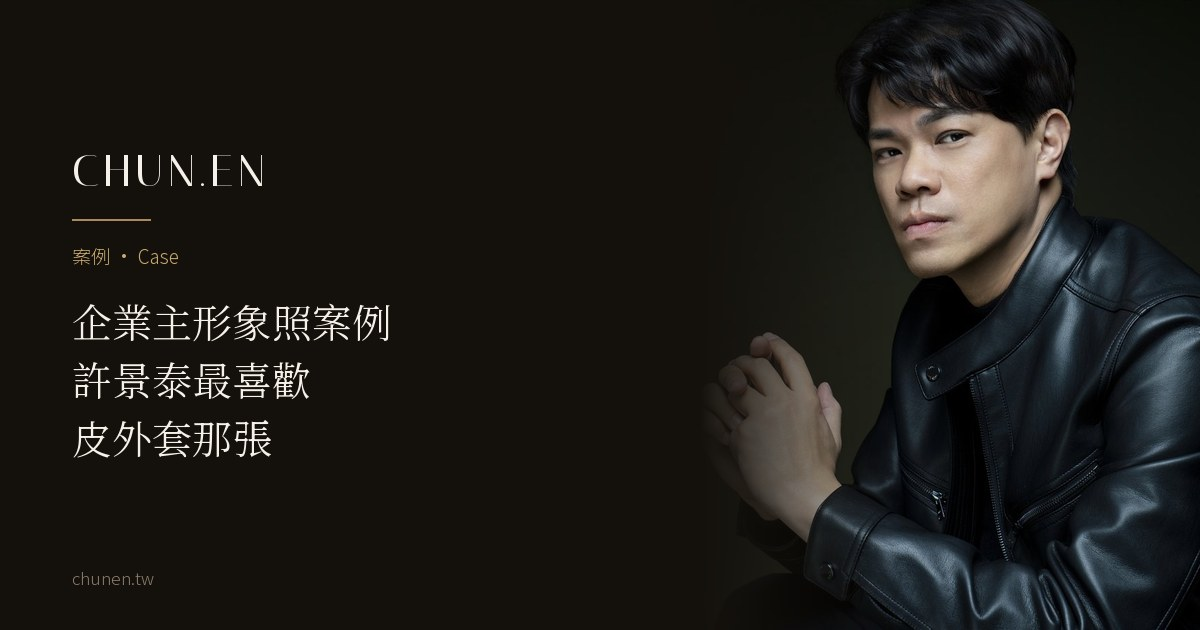
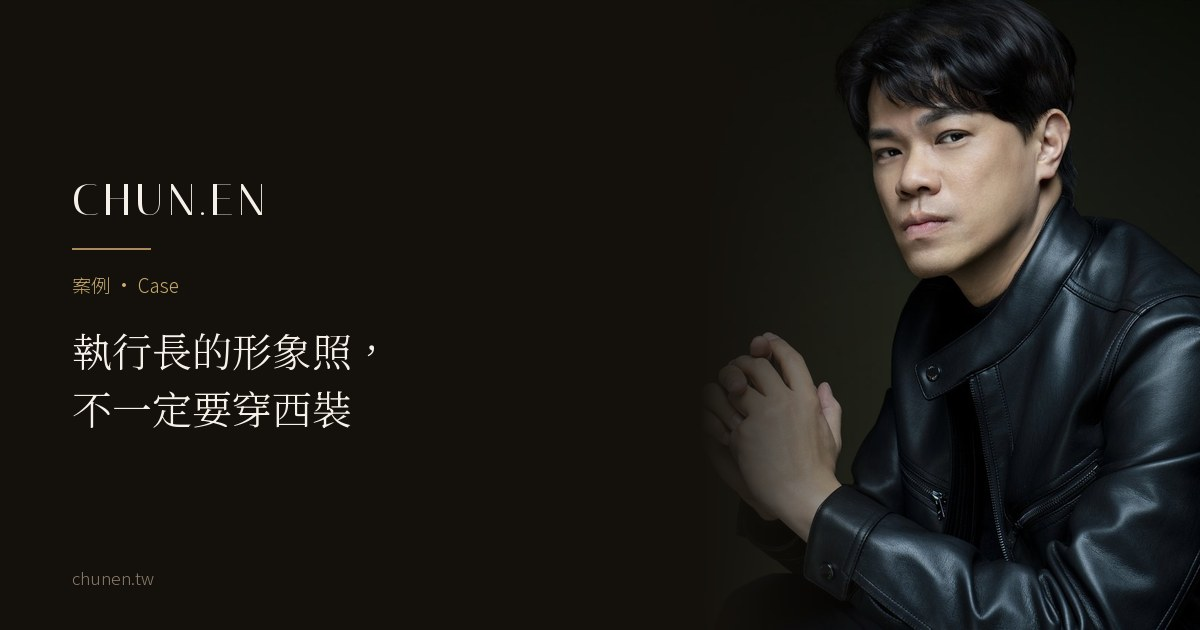
案例頁預覽：企業主篇大標題改「執行長的形象照，不一定要穿西裝」＋重產分享卡

Changed region(s): [[0.0617, 0.3921, 0.3392, 0.7238], [0.0617, 0.2413, 0.2158, 0.3619]]

diff --git a/journal/cxo-ceo-portrait-case.html b/journal/cxo-ceo-portrait-case.html
@@ -4,21 +4,21 @@
   <meta charset="UTF-8" />
   <meta name="viewport" content="width=device-width, initial-scale=1.0, viewport-fit=cover" />
   <meta name="robots" content="noindex" /><!-- 預覽：user 看過、同意公開後才移除此行＋掛列表頁＋入 sitemap＋接內鏈 -->
-  <title>企業主形象照案例｜商戰 CXO 執行長許景泰：四種服裝，他最喜歡皮外套那張｜CHUN.EN 觀點</title>
+  <title>企業主形象照案例｜執行長的形象照，不一定要穿西裝：商戰 CXO 許景泰｜CHUN.EN 觀點</title>
   <meta name="description" content="商戰 CXO 執行長許景泰在 CHUN.EN 拍了駝色西裝、米白西裝、白襯衫與黑色皮外套四種造型，同一天也拍了約 69 秒的自我介紹影片。他最喜歡、也放上 Facebook 粉專封面和大頭貼的，是皮外套那組。" />
   <meta name="theme-color" content="#F6F3ED" />
   <link rel="icon" href="/favicon.ico" sizes="48x48" />
   <link rel="icon" href="/favicon-32.png" type="image/png" sizes="32x32" />
   <link rel="apple-touch-icon" href="/apple-touch-icon.png" />
   <link rel="canonical" href="https://chunen.tw/journal/cxo-ceo-portrait-case.html" />
-  <meta property="og:title" content="企業主形象照案例｜商戰 CXO 執行長許景泰：四種服裝，他最喜歡皮外套那張" />
+  <meta property="og:title" content="企業主形象照案例｜執行長的形象照，不一定要穿西裝：商戰 CXO 許景泰" />
   <meta property="og:description" content="從雙排釦西裝到黑色皮外套，四種服裝裡，他最喜歡的是最不像「標準執行長照」的那一張。" />
   <meta property="og:image" content="https://chunen.tw/assets/og/cxo-ceo-portrait-case-og.jpg" />
   <meta property="og:url" content="https://chunen.tw/journal/cxo-ceo-portrait-case.html" />
   <meta property="og:type" content="article" />
   <meta property="og:locale" content="zh_TW" />
   <meta name="twitter:card" content="summary_large_image" />
-  <meta name="twitter:title" content="企業主形象照案例｜商戰 CXO 執行長許景泰：四種服裝，他最喜歡皮外套那張" />
+  <meta name="twitter:title" content="企業主形象照案例｜執行長的形象照，不一定要穿西裝：商戰 CXO 許景泰" />
   <meta name="twitter:description" content="從雙排釦西裝到黑色皮外套，四種服裝裡，他最喜歡的是最不像「標準執行長照」的那一張。" />
   <meta name="twitter:image" content="https://chunen.tw/assets/og/cxo-ceo-portrait-case-og.jpg" />
   <link rel="preconnect" href="https://fonts.googleapis.com" />
@@ -52,7 +52,7 @@
   </nav>
 
   <article class="cs">
-<header class="xhero split" style="--pos:42% 30%;--pos-m:45% 30%"><div class="jcard-media rv"><picture><source type="image/webp" srcset="../assets/gallery/journal/cxo-ceo-portrait-case-hero-v1-760.webp 760w, ../assets/gallery/journal/cxo-ceo-portrait-case-hero-v1-1240.webp 1240w" sizes="100vw" /><img src="../assets/gallery/journal/cxo-ceo-portrait-case-hero-v1-1400.jpg" alt="黑色立領皮外套的男性形象照，深色背景，雙手交握、直視鏡頭" width="1400" height="933" fetchpriority="high" /></picture></div><div class="xhero-txt"><p class="hero-eyebrow rv">案例 · Case</p><h1>企業主形象照案例<br>許景泰最喜歡<br><em>皮外套那張</em></h1><p class="who">許景泰 Jerry｜商戰 CXO 執行長</p></div></header>
+<header class="xhero split" style="--pos:42% 30%;--pos-m:45% 30%"><div class="jcard-media rv"><picture><source type="image/webp" srcset="../assets/gallery/journal/cxo-ceo-portrait-case-hero-v1-760.webp 760w, ../assets/gallery/journal/cxo-ceo-portrait-case-hero-v1-1240.webp 1240w" sizes="100vw" /><img src="../assets/gallery/journal/cxo-ceo-portrait-case-hero-v1-1400.jpg" alt="黑色立領皮外套的男性形象照，深色背景，雙手交握、直視鏡頭" width="1400" height="933" fetchpriority="high" /></picture></div><div class="xhero-txt"><p class="hero-eyebrow rv">案例 · Case</p><h1>執行長的形象照，<br>不一定要<em>穿西裝</em></h1><p class="who">許景泰 Jerry｜商戰 CXO 執行長</p></div></header>
 <section style="padding-block-start:clamp(2rem,5vw,4rem)"><div class="narrow"><div class="intro"><p>「我是 Jerry，我是一名企業的商業顧問及教練。」這是許景泰在形象影片裡說的第一句話。</p><p>他是<a href="https://cxo-world.com.tw/about-2/" target="_blank" rel="noopener">商戰 CXO</a> 的執行長。CXO 是一個商務社群，宗旨是「去見更厲害的人，擴大你的無限可能」，他在影片裡說，社群有幾千位來自各行各業的會員。經營這樣的社群，執行長本人站出來的樣子，常常就是別人對社群的第一印象。</p><p>2026 年 2 月，他在 CHUN.EN 用同一天拍完形象照，也拍了一支自我介紹影片。</p></div><div class="kp"><p class="eyebrow">In This Article · 本文重點</p><ul><li>許景泰（Jerry）是商戰 CXO 執行長，2026 年 2 月在 CHUN.EN 拍攝形象照與形象影片。</li><li>四種服裝裡，他最喜歡皮外套那組雙手交握、直視鏡頭的一張；Facebook 粉專的封面和大頭貼也都用這組。</li><li>同一天拍的自我介紹影片約 69 秒，交付中文字幕、中英字幕與無字幕三個版本。</li></ul></div></div></section>
 <section class="tight"><div class="wrap"><div class="sec-head"><h2>四種服裝，看見不同面向的他</h2><span>Four looks</span></div><article class="row"><figure><picture><source type="image/webp" srcset="../assets/gallery/journal/cxo-ceo-portrait-case-camel-v1-760.webp 760w, ../assets/gallery/journal/cxo-ceo-portrait-case-camel-v1-1240.webp 1240w" sizes="(max-width: 820px) calc(100vw - 2.5rem), 640px" /><img src="../assets/gallery/journal/cxo-ceo-portrait-case-camel-v1-1400.jpg" alt="駝色雙排釦西裝搭條紋領帶的男性形象照，坐在藤椅上，手靠近下巴" width="1400" height="2100" loading="lazy" /></picture></figure><div><p class="no" aria-hidden="true">01</p><h3>駝色雙排釦西裝</h3><p class="d">配條紋領帶，坐在藤椅上，手靠近下巴，四種裡最正式、也最有份量。</p></div></article><article class="row flip"><figure><picture><source type="image/webp" srcset="../assets/gallery/journal/cxo-ceo-portrait-case-ivory-v1-760.webp 760w, ../assets/gallery/journal/cxo-ceo-portrait-case-ivory-v1-1240.webp 1240w" sizes="(max-width: 820px) calc(100vw - 2.5rem), 640px" /><img src="../assets/gallery/journal/cxo-ceo-portrait-case-ivory-v1-1400.jpg" alt="米白雙排釦西裝內搭條紋襯衫的男性形象照，灰色背景，雙手交握微笑" width="1400" height="2100" loading="lazy" /></picture></figure><div><p class="no" aria-hidden="true">02</p><h3>米白雙排釦西裝</h3><p class="d">內搭條紋襯衫，不打領帶，笑容和手勢都打開了，像在活動上跟人寒暄。</p></div></article><article class="row"><figure><picture><source type="image/webp" srcset="../assets/gallery/journal/cxo-ceo-portrait-case-white-shirt-v1-760.webp 760w, ../assets/gallery/journal/cxo-ceo-portrait-case-white-shirt-v1-1240.webp 1240w" sizes="(max-width: 820px) calc(100vw - 2.5rem), 640px" /><img src="../assets/gallery/journal/cxo-ceo-portrait-case-white-shirt-v1-1400.jpg" alt="白襯衫的男性形象照，坐在白色沙發上，窗光照亮畫面" width="1400" height="2100" loading="lazy" /></picture></figure><div><p class="no" aria-hidden="true">03</p><h3>白襯衫</h3><p class="d">不穿外套，坐在窗光下的白色沙發上，是最放鬆、最有生活感的一套。</p></div></article><article class="row flip"><figure><picture><source type="image/webp" srcset="../assets/gallery/journal/cxo-ceo-portrait-case-leather-smile-v1-760.webp 760w, ../assets/gallery/journal/cxo-ceo-portrait-case-leather-smile-v1-1240.webp 1240w" sizes="(max-width: 820px) calc(100vw - 2.5rem), 640px" /><img src="../assets/gallery/journal/cxo-ceo-portrait-case-leather-smile-v1-1400.jpg" alt="黑色立領皮外套的男性橫幅形象照，深色背景，雙手交握帶著笑容" width="1400" height="933" loading="lazy" /></picture><figcaption>皮外套這組帶著笑容的橫幅，後來成了他粉專的封面。</figcaption></figure><div><p class="no" aria-hidden="true">04</p><h3>黑色皮外套</h3><p class="d">立領皮外套搭深色針織內搭，在深色背景前雙手交握，看著鏡頭。四種裡個人風格最鮮明的一套。</p></div></article><p class="closing">背景也跟著服裝換：灰色、白色、米色、深綠色，還有一組橘色光。</p></div></section><section class="tight"><div class="narrow prose"><div class="sec-head"><h2>他最喜歡的，不是西裝那張</h2><span>His favorite</span></div><p>四種服裝裡，Jerry 自己最喜歡的是皮外套那組的一張：雙手交握，沒有笑，眼神直接看向鏡頭。就是這篇最上面那張。</p><p>他的 Facebook 粉專<a href="https://www.facebook.com/jerry1021" target="_blank" rel="noopener">「許景泰-Jerry粉絲團」</a>，封面用的是皮外套這組帶著笑容的橫幅，大頭貼用的是同一組直視鏡頭的版本。</p><p><strong>企業主的形象照，不一定要是西裝。對要讓人記住自己的人來說，有辨識度的風格，跟正式感一樣重要。</strong></p></div></section><section class="review"><div class="wrap"><figure class="vid"><video controls preload="none" playsinline poster="../assets/gallery/journal/cxo-ceo-portrait-case-video-poster-v1.jpg" width="1280" height="720"><source src="../assets/video/cxo-ceo-portrait-case-intro-v1.mp4" type="video/mp4" /></video><figcaption>許景泰的形象影片，約 69 秒，中文字幕。</figcaption></figure><blockquote>我是Jerry，<b>我用趨勢以及AI，幫助個人以及企業的獲利增長。</b><cite>許景泰｜形象影片的最後一句</cite></blockquote><p class="tips-end" style="margin-inline:auto">照片讓人看見他，影片讓人聽見他怎麼說話。這支約 69 秒的影片裡，Jerry 介紹自己的工作，也介紹 CXO 社群，畫面穿插當天拍照的不同造型。交付時有中文字幕、中英字幕與無字幕三個版本，放到不同平台時，可以選合適的版本。</p></div></section><section><div class="wrap"><div class="sec-head"><h2>你也要代表一個組織？拍之前先想兩件事</h2><span>Before the shoot</span></div><div class="tips"><div class="tip"><span class="tn">01</span><h3>照片會出現在哪裡</h3><p>活動介紹、合作提案、講座海報、媒體採訪、社群大頭貼，每個地方的比例和氣氛都不一樣。</p></div><div class="tip"><span class="tn">02</span><h3>你希望別人記得你哪一面</h3><p>正式的負責人、好聊的夥伴，還是有自己風格的人。可以不只一面，拍攝時分開安排。</p></div></div><p class="tips-end">如果還需要本人開口介紹，影片要講的重點和拍法，也可以跟照片一起規劃。</p></div></section>
 <section class="tight"><div class="narrow xfaq"><div class="sec-head"><h2>常見問題</h2><span>FAQ</span></div><details><summary>企業主形象照一定要穿西裝嗎？<span class="pm" aria-hidden="true"></span></summary><p>不一定。許景泰這次拍了西裝、襯衫和皮外套，他最喜歡、也放上 Facebook 粉專封面和大頭貼的，是黑色皮外套那組。服裝可以跟著照片的用途，和你想留給別人的印象來選。</p></details><details><summary>形象照和形象影片可以同一天拍嗎？<span class="pm" aria-hidden="true"></span></summary><p>可以安排。許景泰的形象照和約 69 秒的自我介紹影片，就是同一天拍的。我們會先確認影片內容、造型和時程，再決定要不要排在同一天。</p></details><details><summary>形象影片要拍多長？<span class="pm" aria-hidden="true"></span></summary><p>看用途和要講的內容。許景泰的自我介紹影片約 69 秒，介紹了他的工作和 CXO 社群。</p></details></div></section>
@@ -83,7 +83,7 @@
 {
   "@context": "https://schema.org",
   "@type": "Article",
-  "headline": "企業主形象照案例｜商戰 CXO 執行長許景泰：四種服裝，他最喜歡皮外套那張",
+  "headline": "企業主形象照案例｜執行長的形象照，不一定要穿西裝：商戰 CXO 許景泰",
   "description": "商戰 CXO 執行長許景泰在 CHUN.EN 拍了駝色西裝、米白西裝、白襯衫與黑色皮外套四種造型，同一天也拍了約 69 秒的自我介紹影片。他最喜歡、也放上 Facebook 粉專封面和大頭貼的，是皮外套那組。",
   "image": "https://chunen.tw/assets/og/cxo-ceo-portrait-case-og.jpg",
   "author": {
@@ -179,7 +179,7 @@
     {
       "@type": "ListItem",
       "position": 3,
-      "name": "企業主形象照案例｜商戰 CXO 執行長許景泰：四種服裝，他最喜歡皮外套那張",
+      "name": "企業主形象照案例｜執行長的形象照，不一定要穿西裝：商戰 CXO 許景泰",
       "item": "https://chunen.tw/journal/cxo-ceo-portrait-case.html"
     }
   ]
